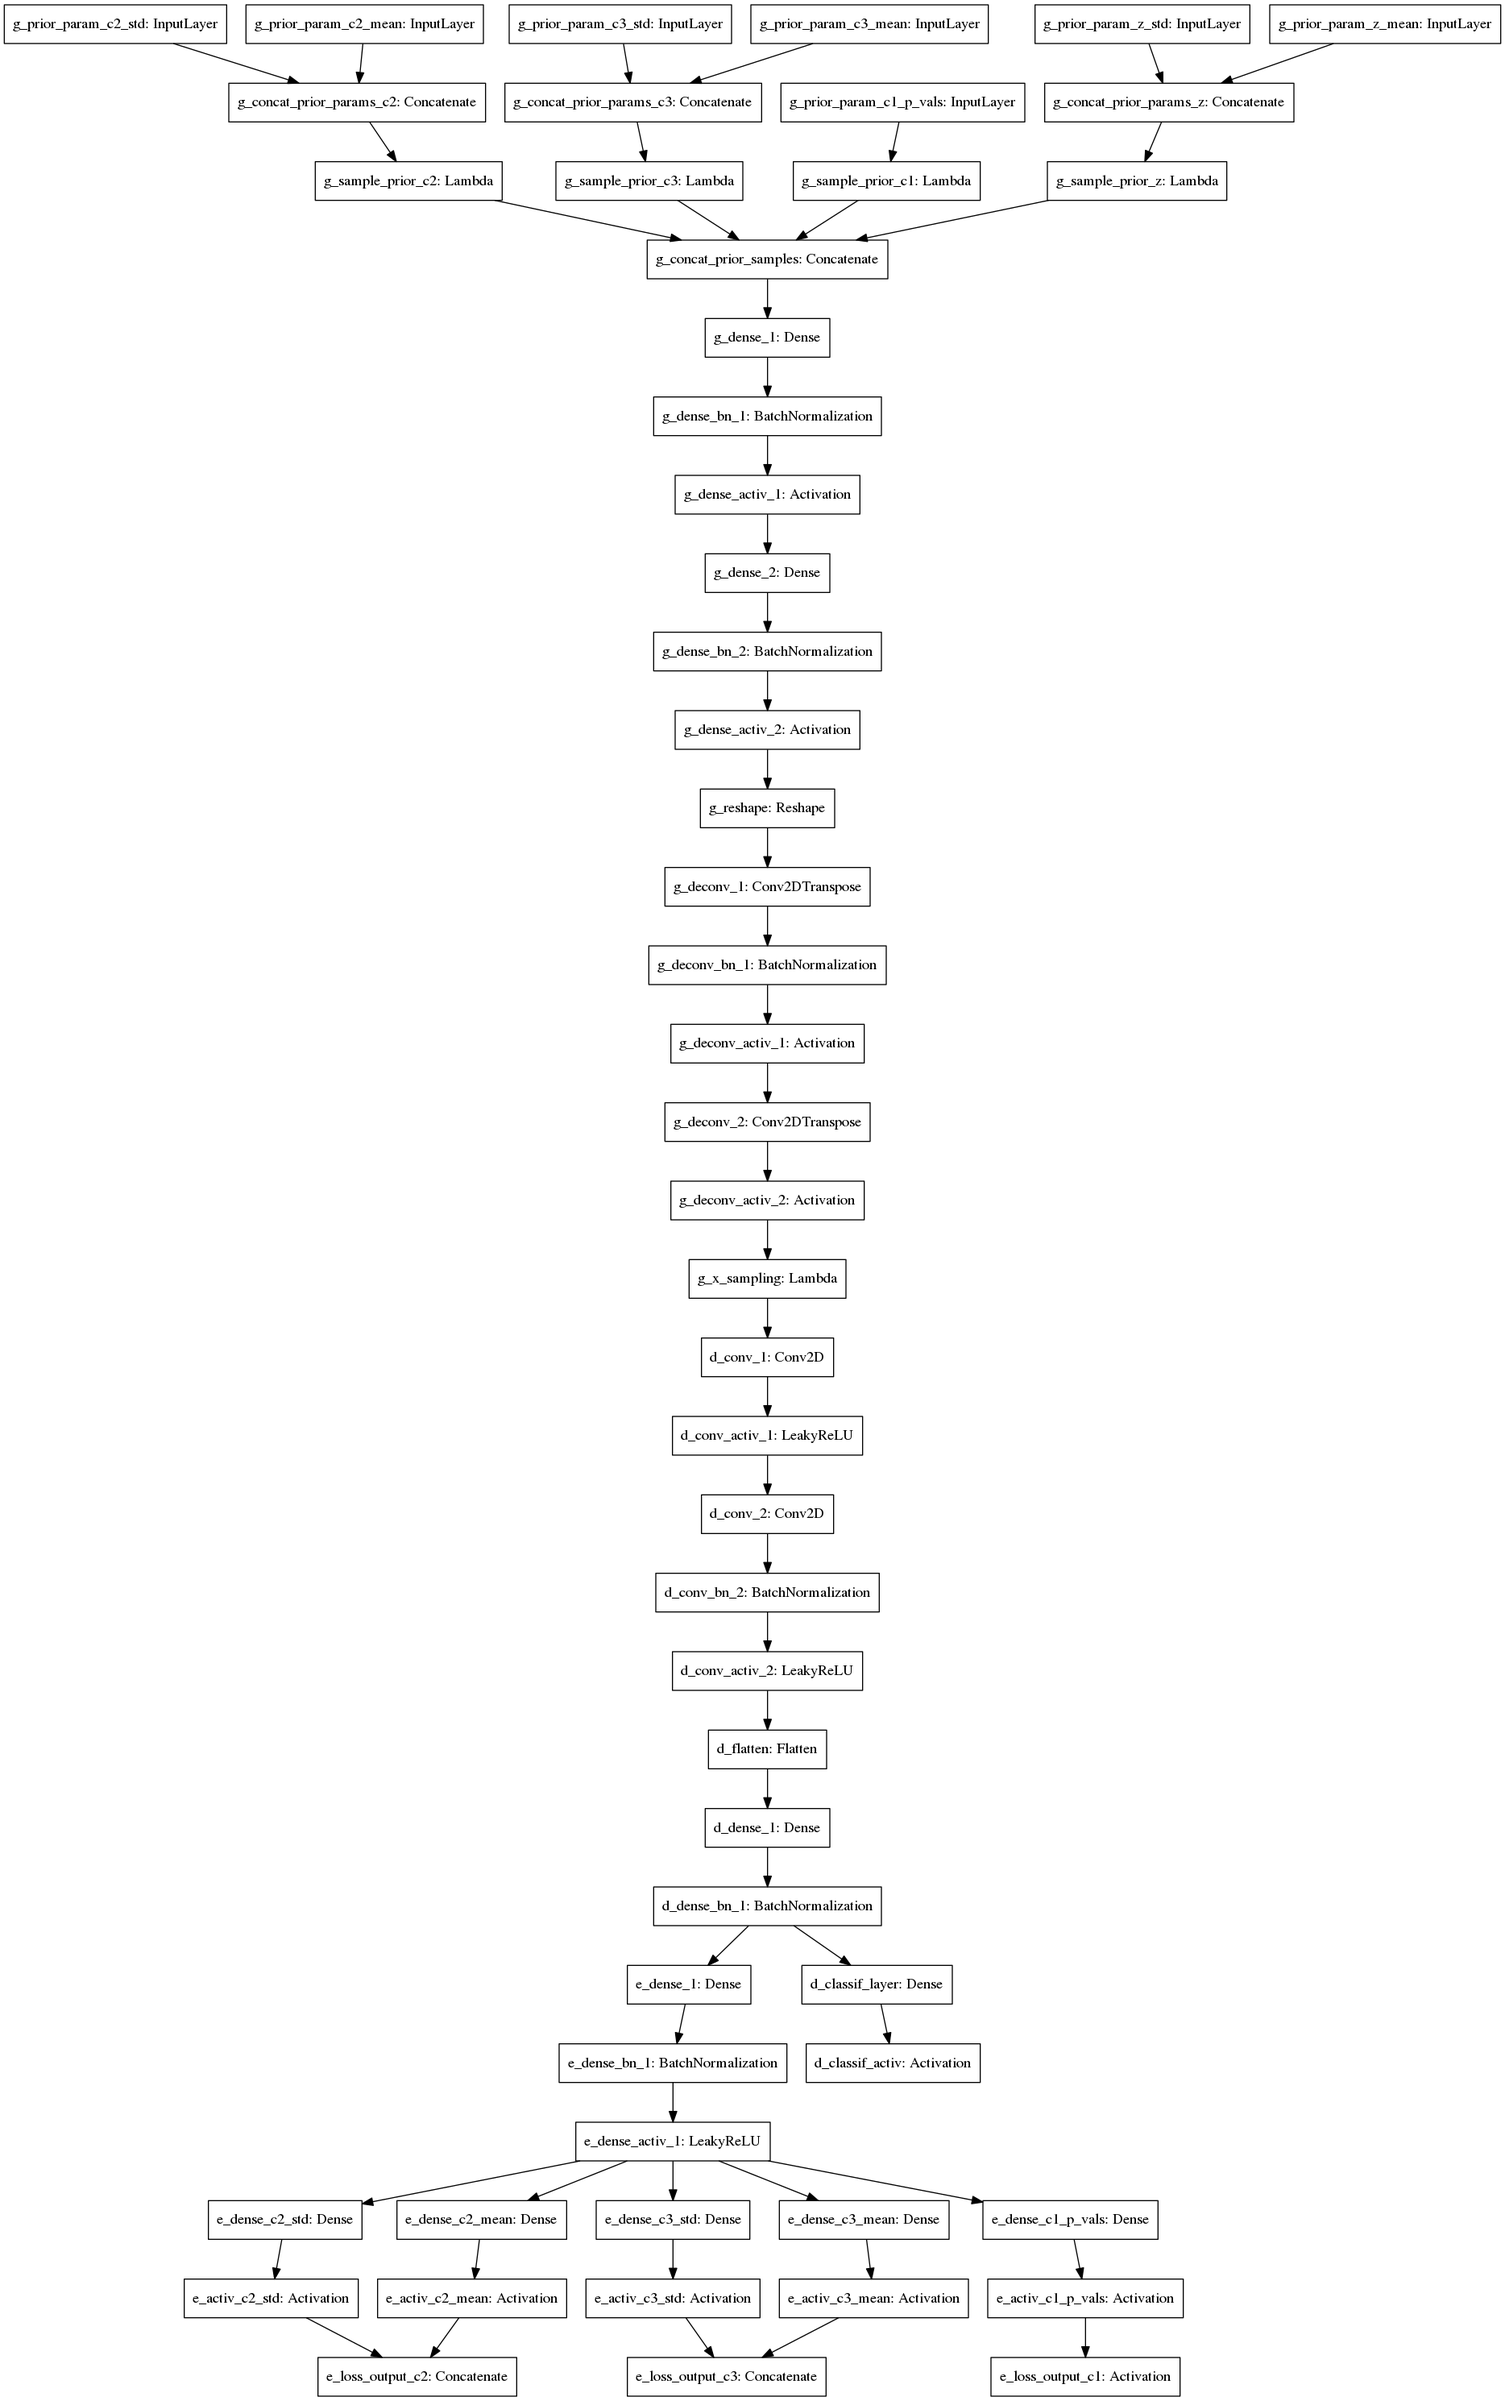
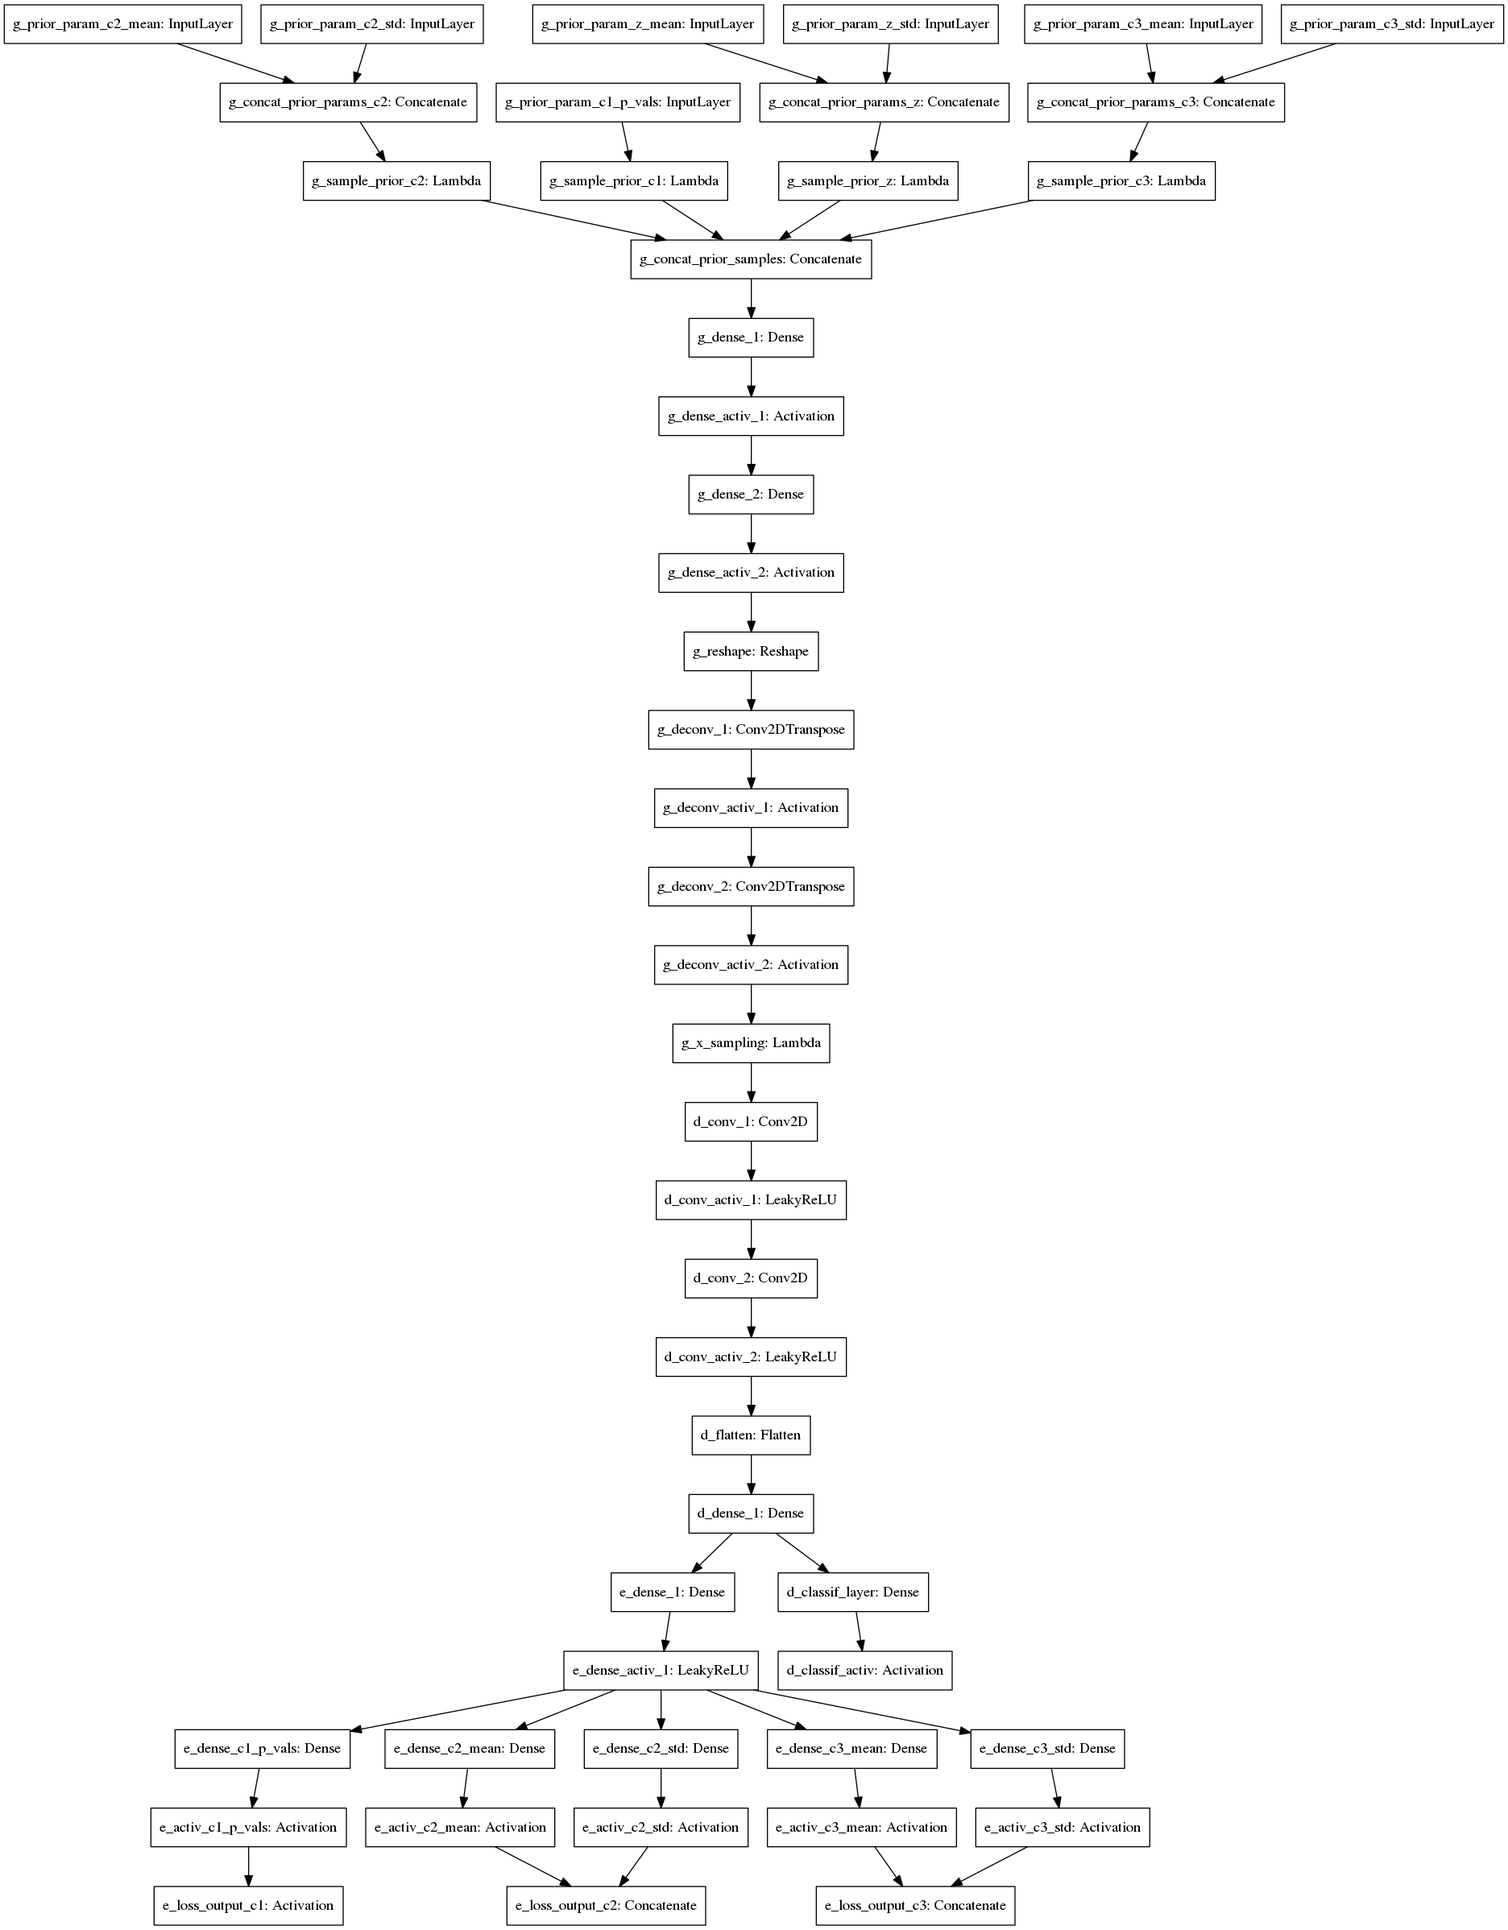
Disable batch-norm for now, something seems wrong
There's a large discrepancy between training and testing with
batch norm.

Changed region(s): [[0.0, 0.0, 0.9936, 1.0]]

diff --git a/learn/networks/convnets.py b/learn/networks/convnets.py
@@ -26,12 +26,12 @@ class GeneratorNet(Network):
 
         # a fully connected is needed to bring the inputs to a shape suitable for convolutions
         self.layers.append(Dense(units=128, name="g_dense_1"))
-        self.layers.append(BatchNormalization(name="g_dense_bn_1"))
+        # self.layers.append(BatchNormalization(name="g_dense_bn_1"))
         self.layers.append(Activation(activation=K.relu, name="g_dense_activ_1"))
 
         self.layers.append(Dense(units=image_shape[1] // 4 * image_shape[2] // 4 * 32,
                                  name="g_dense_2"))
-        self.layers.append(BatchNormalization(name="g_dense_bn_2"))
+        # self.layers.append(BatchNormalization(name="g_dense_bn_2"))
         self.layers.append(Activation(activation=K.relu, name="g_dense_activ_2"))
 
         # # # I use the `th` orientation of theano
@@ -44,7 +44,7 @@ class GeneratorNet(Network):
                                            padding='same',
                                            data_format='channels_first',
                                            name="g_deconv_1"))
-        self.layers.append(BatchNormalization(name="g_deconv_bn_1"))
+        # self.layers.append(BatchNormalization(name="g_deconv_bn_1"))
         self.layers.append(Activation(activation=K.relu, name="g_deconv_activ_1"))
 
         # # TODO: if we'll be generating color images, this needs to produce
@@ -79,12 +79,12 @@ class SharedNet(Network):
                                 kernel_size=(3, 3),
                                 padding="same",
                                 name="d_conv_2"))
-        self.layers.append(BatchNormalization(name="d_conv_bn_2"))
+        # self.layers.append(BatchNormalization(name="d_conv_bn_2"))
         self.layers.append(LeakyReLU(name="d_conv_activ_2"))
 
         self.layers.append(Flatten(name="d_flatten"))
         self.layers.append(Dense(units=128, name="d_dense_1"))
-        self.layers.append(BatchNormalization(name="d_dense_bn_1"))
+        # self.layers.append(BatchNormalization(name="d_dense_bn_1"))
 
     def apply(self, inputs):
         network = inputs

diff --git a/learn/models/infogan.py b/learn/models/infogan.py
@@ -96,7 +96,7 @@ class InfoGAN(object):
         # the encoder shares a common trunk with discriminator
         shared_gen = shared_net.apply(generated)
         encoder_net = Dense(128, name="e_dense_1")(shared_gen)
-        encoder_net = BatchNormalization(name="e_dense_bn_1")(encoder_net)
+        # encoder_net = BatchNormalization(name="e_dense_bn_1")(encoder_net)
         encoder_net = LeakyReLU(name="e_dense_activ_1")(encoder_net)
 
         # add outputs for the parameters of all assumed meaninful distributions
@@ -154,7 +154,12 @@ class InfoGAN(object):
         self.enc_gen_model = Model(inputs=prior_param_inputs,
                                    outputs=[gen_disc_out] + posterior_outputs,
                                    name="enc_gen_model")
-        self.enc_gen_model.compile(optimizer='adam', loss=losses)
+
+        def debug_metric(true, preds):
+            return preds
+
+        self.enc_gen_model.compile(optimizer='adam', loss=losses,
+                                   metrics={disc_sigmoid.name: debug_metric})
 
         # DEBUGGING
         # disc prediction

diff --git a/learn/models/model_trainer.py b/learn/models/model_trainer.py
@@ -31,6 +31,7 @@ class ModelTrainer(object):
             if counter % 2 == 1:
                 gen_losses = self.model.train_gen_pass()
 
+                print("Gen names: {}".format(self.model.enc_gen_model.metrics_names))
                 print("Gen losses: {}".format(gen_losses) + "\tDisc loss: {}".format(disc_loss))
                 loss_logs = {}
                 loss_logs['discriminator_loss'] = disc_loss
